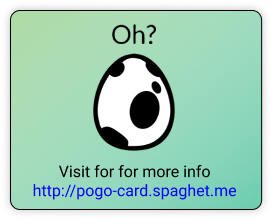
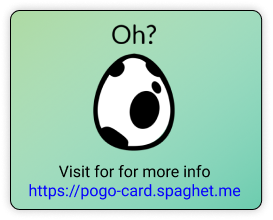
Changes for SSL

Changed region(s): [[0.0879, 0.8182, 0.8791, 0.9273]]

diff --git a/views/demo.html b/views/demo.html
@@ -7,18 +7,18 @@
     <meta name="title" content="Trainer Card Buddy">
     <meta property="og:site_name" content="pogo-card">
     <meta property="og:locale" content="en_US">
-    <meta property="og:url" content="http://pogo-card.spaghet.me">
-    <meta name="twitter:site" content="http://pogo-card.spaghet.me">
+    <meta property="og:url" content="https://pogo-card.spaghet.me">
+    <meta name="twitter:site" content="https://pogo-card.spaghet.me">
     <meta data-hid="title" name="title" content="Trainer Card Buddy">
     <meta data-hid="description" name="description" content="Create and Share your Pokemon Go trainer card online!">
     <meta property="og:type" content="website">
     <meta property="og:title" content="Trainer Card Buddy">
     <meta property="og:description" content="Create and Share your Pokemon Go trainer card online!">
-    <meta property="og:image" content="http://pogo-card.spaghet.me/404.png">
+    <meta property="og:image" content="https://pogo-card.spaghet.me/404.png">
     <meta name="twitter:card" content="summary">
     <meta name="twitter:title" content="Trainer Card Buddy">
     <meta name="twitter:description" content="Create and Share your Pokemon Go trainer card online!">
-    <meta name="twitter:image" content="http://pogo-card.spaghet.me/404.png">
+    <meta name="twitter:image" content="https://pogo-card.spaghet.me/404.png">
     <meta name="twitter:image:alt" content="Pokemon Hatch Egg image">
     <title>Demo | Trainer Card Builder</title>
 </head>

diff --git a/views/index.html b/views/index.html
@@ -9,18 +9,18 @@
     <meta name="title" content="Trainer Card Buddy">
     <meta property="og:site_name" content="pogo-card">
     <meta property="og:locale" content="en_US">
-    <meta property="og:url" content="http://pogo-card.spaghet.me">
-    <meta name="twitter:site" content="http://pogo-card.spaghet.me">
+    <meta property="og:url" content="https://pogo-card.spaghet.me">
+    <meta name="twitter:site" content="https://pogo-card.spaghet.me">
     <meta data-hid="title" name="title" content="Trainer Card Buddy">
     <meta data-hid="description" name="description" content="Create and Share your Pokemon Go trainer card online!">
     <meta property="og:type" content="website">
     <meta property="og:title" content="Trainer Card Buddy">
     <meta property="og:description" content="Create and Share your Pokemon Go trainer card online!">
-    <meta property="og:image" content="http://pogo-card.spaghet.me/404.png">
+    <meta property="og:image" content="https://pogo-card.spaghet.me/404.png">
     <meta name="twitter:card" content="summary">
     <meta name="twitter:title" content="Trainer Card Buddy">
     <meta name="twitter:description" content="Create and Share your Pokemon Go trainer card online!">
-    <meta name="twitter:image" content="http://pogo-card.spaghet.me/404.png">
+    <meta name="twitter:image" content="https://pogo-card.spaghet.me/404.png">
     <meta name="twitter:image:alt" content="Pokemon Hatch Egg image">
     <title>Trainer Card Builder</title>
 

diff --git a/server.js b/server.js
@@ -47,6 +47,24 @@ app.get('/:name/:code', async (req, res) => {
 });
 
 
+app.get('/:name/:code/card.svg', async (req, res) => {
+  const { name, code } = req.params;
+  
+  const style = req.query['style'];
+
+  if (!name || !code || code.length !== 14 ) {
+    res.set({
+      'content-type': 'image/svg+xml',
+      'cache-control': 'max-age=0, no-cache, no-store, must-revalidate'
+    });
+
+    return fs.createReadStream(`${__dirname}/404.svg`).pipe(res);
+  }
+
+  
+  return await createPogoImage(res, name, code, style);
+});
+
 // listen for requests :)
 var listener = app.listen(port, () => {
   console.log(`Your app is listening on port ${listener.address().port}`);
